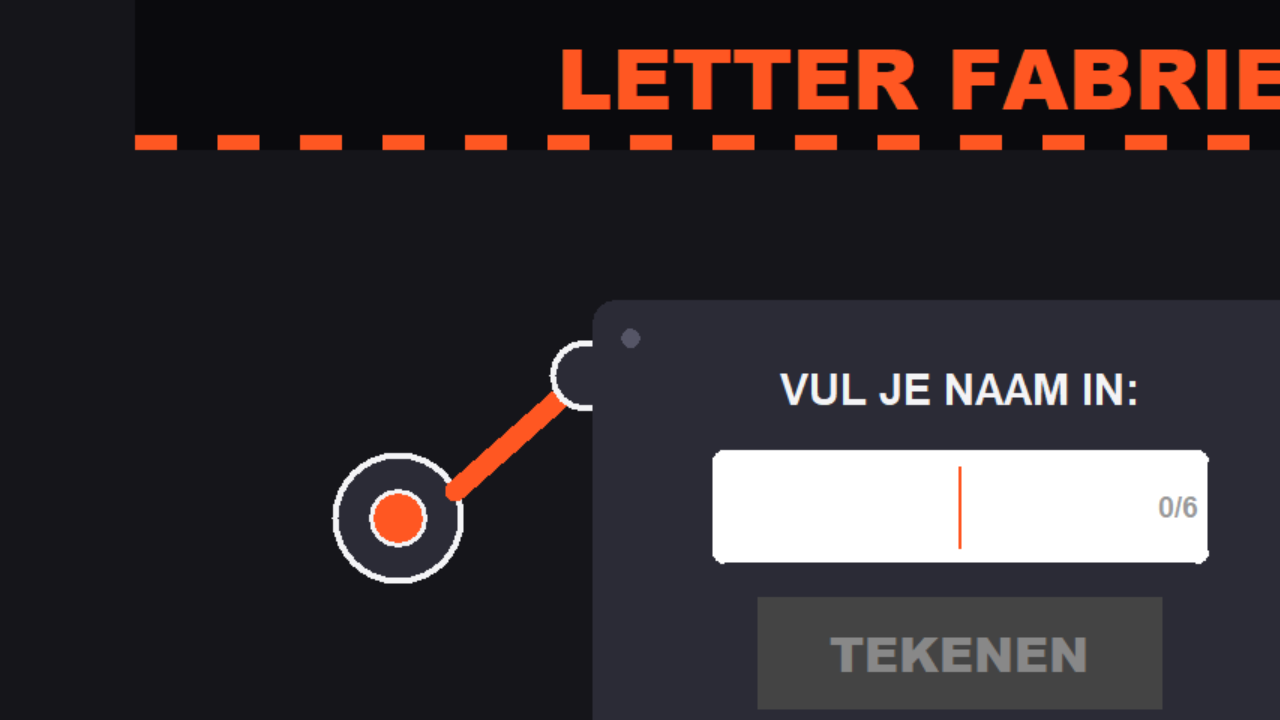
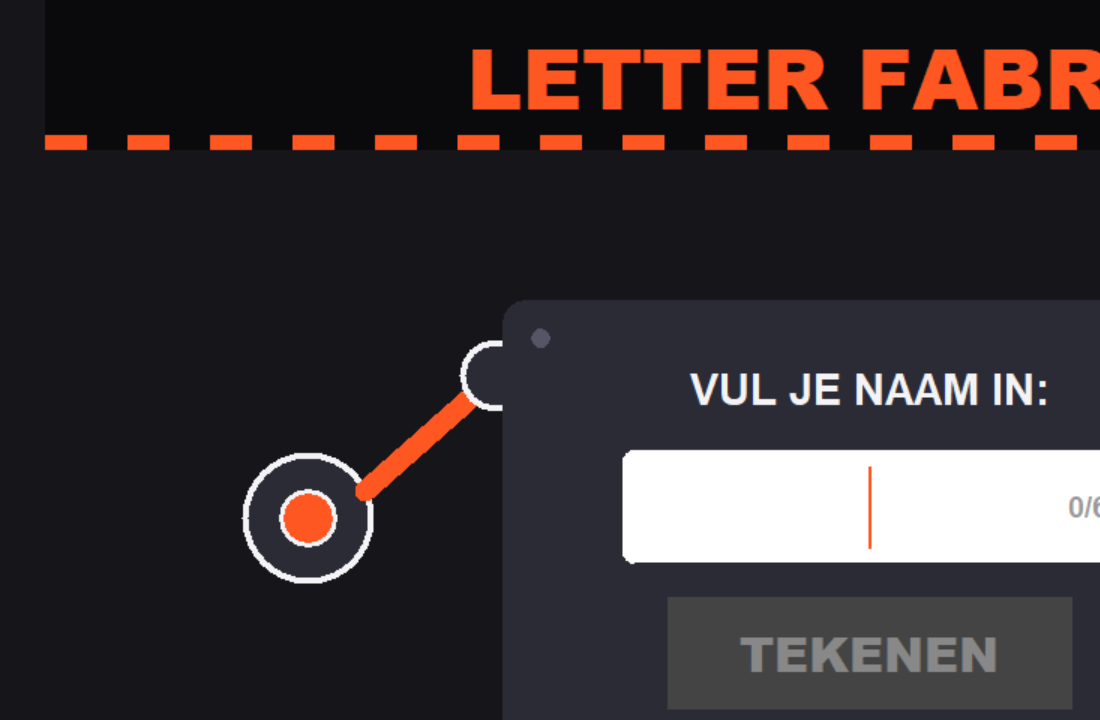
Verbeter screenshot en voeg kostprijs toe

diff --git a/README.md b/README.md
@@ -44,7 +44,17 @@ ABB-Robot-Letter-Fabriek/
 
 ## Python-scherm
 
-![Python GUI](documentatie/afbeeldingen/python_scherm.png)
+<img src="documentatie/afbeeldingen/python_scherm.png" alt="Python GUI" width="800">
+
+## Kostprijsberekening
+
+| Onderdeel | Kostprijs |
+| --- | ---: |
+| ABB IRB 2400 met IRC5-controller | €10.700 |
+| Raspberry Pi 3B+ + touchscreen | €44 |
+| Plexiglas | €13 |
+| Houten constructie | €15 |
+| **Totaal** | **€10.772** |
 
 ## Benodigdheden
 

diff --git a/documentatie/project_dossier.md b/documentatie/project_dossier.md
@@ -104,3 +104,15 @@ Met deze methode is een robuuste dataverbinding gerealiseerd zonder dat hiervoor
 In de repository staan ook Alien- en G-codebestanden als voorbeeldmateriaal en experiment. Deze bestanden zijn niet gebruikt als bewezen werkend onderdeel in het verslag. Het verslag focust op het werkende communicatiesysteem: naam invoeren op de PC, `naam.doc` via FTP naar de robot sturen en het bestand door RAPID laten lezen.
 
 G-code is dus niet de kern van de werkende demonstratie. Als G-code later gebruikt wordt, moet er nog een aparte conversiestap naar veilige ABB RAPID-bewegingen gebeuren, inclusief controle van schaal, TCP, werkobject, snelheden en bereik van de robot.
+
+## 8. Kostprijsberekening
+
+| Onderdeel | Kostprijs |
+| --- | ---: |
+| ABB IRB 2400 met IRC5-controller | €10.700 |
+| Raspberry Pi 3B+ + touchscreen | €44 |
+| Plexiglas | €13 |
+| Houten constructie | €15 |
+| **Totaal** | **€10.772** |
+
+De grootste kost is de ABB IRB 2400 met IRC5-controller. De extra materialen voor de interactieve opstelling blijven beperkt tot de Raspberry Pi met touchscreen, plexiglas en de houten constructie.

diff --git a/documentatie/kostprijsberekening.md b/documentatie/kostprijsberekening.md
@@ -1,0 +1,11 @@
+# Kostprijsberekening
+
+| Onderdeel | Kostprijs |
+| --- | ---: |
+| ABB IRB 2400 met IRC5-controller | €10.700 |
+| Raspberry Pi 3B+ + touchscreen | €44 |
+| Plexiglas | €13 |
+| Houten constructie | €15 |
+| **Totaal** | **€10.772** |
+
+De totale kostprijs van de opstelling is **€10.772**.

diff --git a/documentatie/README.md b/documentatie/README.md
@@ -6,5 +6,6 @@ Deze map bevat de projectdocumentatie.
 - `presentatie/ABB_Robot_Letter_Fabriek_presentatie.pptx`: PowerPoint-presentatie.
 - `project_dossier.md`: technisch dossier over de communicatie tussen PC en ABB-robot.
 - `robotcode_op_robot_zetten.md`: uitleg om RAPID-code op de robotcontroller te zetten.
+- `kostprijsberekening.md`: overzicht van de kostprijs van de opstelling.
 - `conceptkeuze/concept_keuze.md`: ideeen en gekozen concept.
 - `afbeeldingen/python_scherm.png`: screenshot van het Python-scherm.